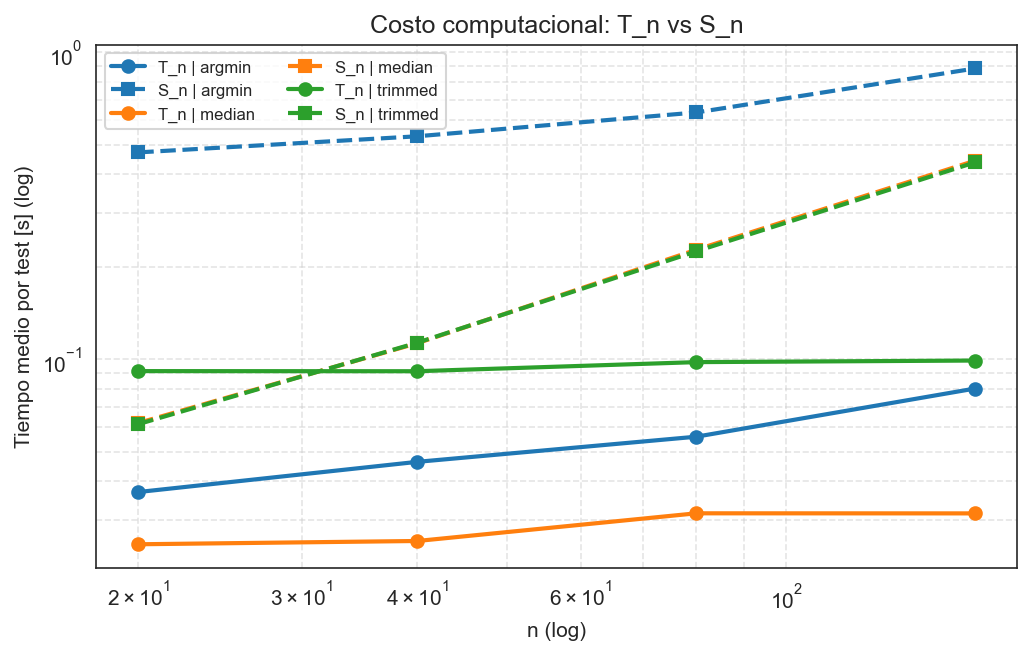
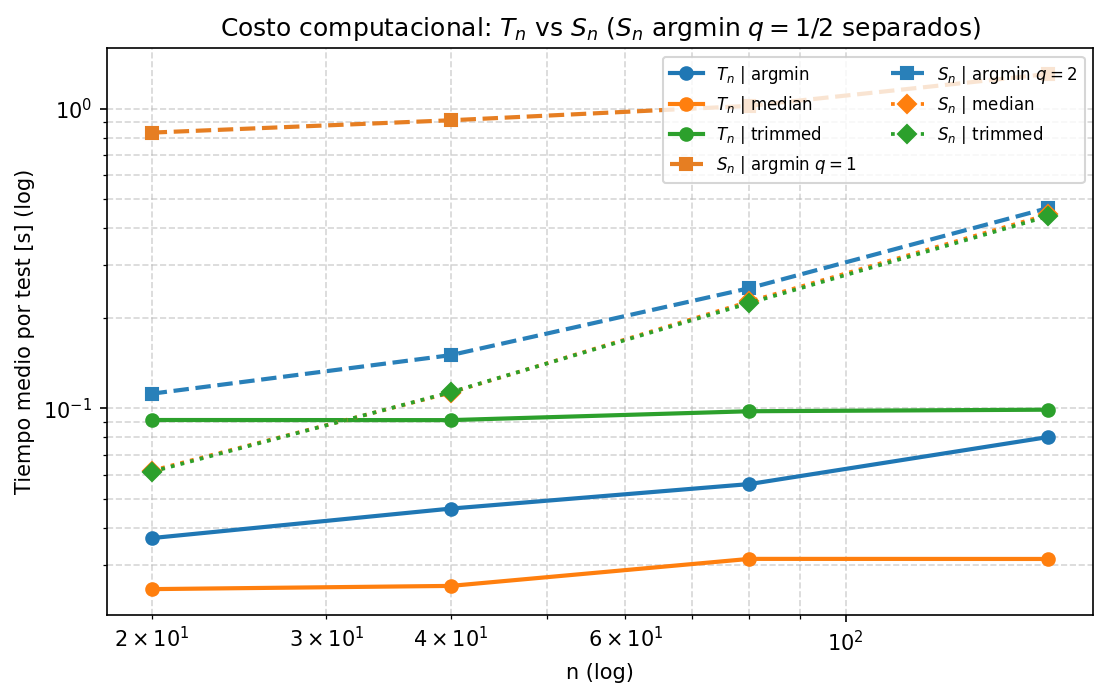
fix: fig 12 (compare_tn_vs_sn_runtime) muestra S_n argmin q=1/q=2 por separado
- plot_tn_vs_sn_runtime: argmin q=1 (grid, naranja) y q=2 (secante, azul)
  como curvas distintas; median/trimmed de S_n promediados sobre q
- Actualiza caption fig. 12 en resultados.tex

Changed region(s): [[0.062, 0.0305, 0.9922, 0.9771], [0.0, 0.2443, 0.062, 0.7023]]

diff --git a/src/plotting_sn.py b/src/plotting_sn.py
@@ -518,26 +518,48 @@ def plot_tn_vs_sn_runtime(
     summary_sn: pd.DataFrame,
     outdir: Path,
 ) -> Path:
-    """Tiempo medio por test: T_n vs S_n por estimador."""
+    """Tiempo T_n vs S_n: argmin q=1/q=2 de S_n separados; median/trimmed promediados."""
     tn_g = summary_tn.groupby(["n", "estimator"], as_index=False).agg(
         mean_time_s=("mean_time_s", "mean"))
-    sn_g = summary_sn.groupby(["n", "estimator"], as_index=False).agg(
-        mean_time_s=("mean_time_s", "mean"))
-    fig, ax = plt.subplots(figsize=(7.0, 4.5))
-    colors = {"argmin": "C0", "median": "C1", "trimmed": "C2"}
-    for est in sorted(set(tn_g["estimator"]).intersection(sn_g["estimator"])):
-        col = colors.get(est, "k")
+    # S_n argmin: separado por q
+    sn_argmin_g = (
+        summary_sn[summary_sn["estimator"] == "argmin"]
+        .groupby(["n", "q"], as_index=False)
+        .agg(mean_time_s=("mean_time_s", "mean"))
+    )
+    # S_n median/trimmed: promedio sobre q (idéntico para q=1 y q=2)
+    sn_robust_g = (
+        summary_sn[summary_sn["estimator"].isin(["median", "trimmed"])]
+        .groupby(["n", "estimator"], as_index=False)
+        .agg(mean_time_s=("mean_time_s", "mean"))
+    )
+
+    fig, ax = plt.subplots(figsize=(7.5, 4.8))
+    tn_colors = {"argmin": "C0", "median": "C1", "trimmed": "C2"}
+    # T_n curves
+    for est in sorted(tn_g["estimator"].unique()):
         s1 = tn_g[tn_g["estimator"] == est].sort_values("n")
-        s2 = sn_g[sn_g["estimator"] == est].sort_values("n")
         ax.plot(s1["n"], s1["mean_time_s"], marker="o", linestyle="-",
-                linewidth=2, color=col, label=f"T_n | {est}")
+                linewidth=2, color=tn_colors.get(est, "k"), label=f"$T_n$ | {est}")
+    # S_n argmin q=1 and q=2
+    q_colors = {1: "#E67E22", 2: "#2980B9"}
+    for q in sorted(sn_argmin_g["q"].unique()):
+        s2 = sn_argmin_g[sn_argmin_g["q"] == q].sort_values("n")
         ax.plot(s2["n"], s2["mean_time_s"], marker="s", linestyle="--",
-                linewidth=2, color=col, label=f"S_n | {est}")
+                linewidth=2, color=q_colors.get(q),
+                label=rf"$S_n$ | argmin $q={q}$")
+    # S_n median and trimmed
+    robust_colors = {"median": "C1", "trimmed": "C2"}
+    for est in sorted(sn_robust_g["estimator"].unique()):
+        s2 = sn_robust_g[sn_robust_g["estimator"] == est].sort_values("n")
+        ax.plot(s2["n"], s2["mean_time_s"], marker="D", linestyle=":",
+                linewidth=1.8, color=robust_colors.get(est, "k"),
+                label=f"$S_n$ | {est}")
     ax.set_xscale("log")
     ax.set_yscale("log")
     ax.set_xlabel("n (log)")
     ax.set_ylabel("Tiempo medio por test [s] (log)")
-    ax.set_title("Costo computacional: T_n vs S_n")
+    ax.set_title(r"Costo computacional: $T_n$ vs $S_n$ ($S_n$ argmin $q=1/2$ separados)")
     ax.grid(True, which="both", linestyle="--", alpha=0.5)
     ax.legend(fontsize=8, ncol=2)
     fig.tight_layout()

diff --git a/documento/4 - resultados.tex b/documento/4 - resultados.tex
@@ -129,7 +129,7 @@ Los costos computacionales observados confirman el análisis teórico de la Secc
 \begin{figure}[H]
   \centering
   \includegraphics[width=0.85\textwidth]{../results/figures/compare_tn_vs_sn_runtime.png}
-  \caption{Comparativa de tiempos $T_n$ vs.\ $S_n$ por estimador y $n$.}
+  \caption{Comparativa de tiempos $T_n$ vs.\ $S_n$ por estimador y $n$. Para $S_n$, argmin $q=1$ (grid) y argmin $q=2$ (secante) se muestran por separado; mediana y media afeitada promediados sobre $q$.}
   \label{fig:compare-runtime}
 \end{figure}
 